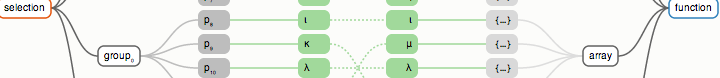
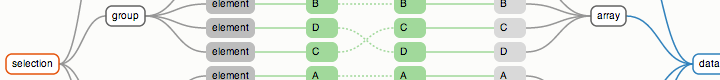
Link selections tutorial.

diff --git a/mike/index.html b/mike/index.html
@@ -41,6 +41,8 @@
 
 <h1>Mike Bostock</h1>
 
+<p><span class="date">April 26, 2013</span><a href="selection/">How Selections Work<img class="preview" src="selection.png"></a><br>
+
 <p><span class="nytimes date">April 25, 2013</span><a href="http://www.nytimes.com/interactive/2013/04/25/sports/football/picking-the-best-in-the-nfl-draft.html">N.F.L. Draft: How Good Are Teams at Picking the Best?<img class="preview" src="nfl-draft.png"></a><br>
 
 <p><span class="nytimes date">April 8, 2013</span><a href="http://www.nytimes.com/interactive/2013/04/08/business/global/asia-map.html">China Still Dominates, but Some Manufacturers Look Elsewhere<img class="preview" src="asia-cartogram.png"></a><br>

diff --git a/mike/selection/index.html b/mike/selection/index.html
@@ -121,7 +121,7 @@ code span {
 </style>
 
 <header>
-  <aside>April 25, 2013</aside>
+  <aside>April 26, 2013</aside>
   <a href="../" rel="author">Mike Bostock</a>
 </header>
 
@@ -1623,7 +1623,7 @@ tree(
 </ul>
 
 <footer>
-  <aside>April 25, 2013</aside>
+  <aside>April 26, 2013</aside>
   <a href="../" rel="author">Mike Bostock</a>
 </footer>
 
